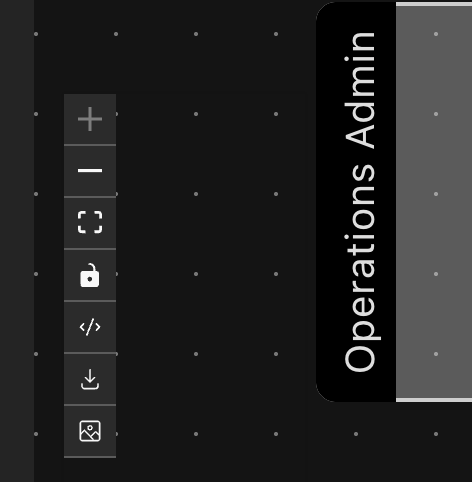
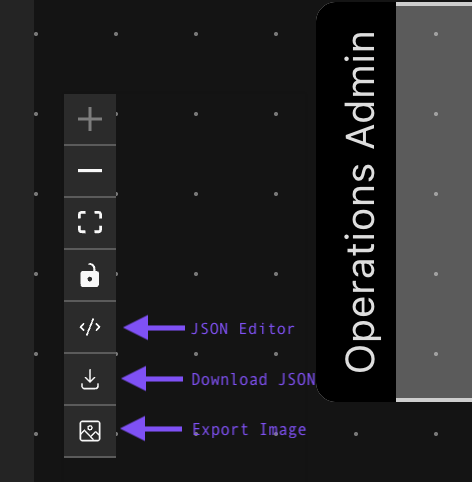
Updated images, fonts and readme

diff --git a/frontend/src/SwimLanesViewer.tsx b/frontend/src/SwimLanesViewer.tsx
@@ -65,9 +65,9 @@ const getLayoutedElements = (nodes: any[] = [], edges: any[] = [], direction = '
   const swimLanesWidthHeight: any = {
     width: 0
   };
-  const swimLanesById:any = {};
+  const swimLanesById: any = {};
   nodes.forEach((node: any) => {
-    if(node.type === 'swimLaneNode') {
+    if (node.type === 'swimLaneNode') {
       if (!swimLanesById[node.id]) {
         swimLanesById[node.id] = node;
       }
@@ -152,11 +152,13 @@ const SwimLanesViewer: React.FC<{ initialNodes: any[], initialEdges: any[], isMo
     endNode: EndNode
   }
   const [data, setData] = useState<{ initialNodes: any[], initialEdges: any[] }>({ initialNodes, initialEdges });
+  const [nodes, setNodes, onNodesChange] = useNodesState(data.initialNodes);
+  const [edges, setEdges, onEdgesChange] = useEdgesState(data.initialNodes);
   const [toggleEditor, setToggleEditor] = useState<boolean>(false);
   const [instance, setInstance] = useState<ReactFlowInstance<Node, any> | null>(null);
   const resizeHandler = debounce(() => {
-      instance?.fitView();
-    }, 100);
+    instance?.fitView();
+  }, 100);
 
   useEffect(() => {
     window.addEventListener('resize', resizeHandler);
@@ -172,7 +174,7 @@ const SwimLanesViewer: React.FC<{ initialNodes: any[], initialEdges: any[], isMo
     );
     setNodes(calculatedNodes.nodes);
     setEdges(calculatedNodes.edges);
-    setTimeout(() => instance?.fitView(),100)
+    setTimeout(() => instance?.fitView(), 100)
   }, [data.initialEdges, data.initialNodes]);
 
   useEffect(() => {
@@ -181,15 +183,6 @@ const SwimLanesViewer: React.FC<{ initialNodes: any[], initialEdges: any[], isMo
     })
   }, [initialEdges, initialNodes]);
 
-  const [nodes, setNodes, onNodesChange] = useNodesState(data.initialNodes);
-  const [edges, setEdges, onEdgesChange] = useEdgesState(data.initialNodes);
-  const onConnect = useCallback(
-    (params: any) =>
-      setEdges((eds) =>
-        addEdge({ ...params, type: ConnectionLineType.SmoothStep, animated: true }, eds),
-      ),
-    [],
-  );
 
   return (
     <div className='flex-col content-center h-dvh flex-1 lg:flex-3/4'>
@@ -199,7 +192,7 @@ const SwimLanesViewer: React.FC<{ initialNodes: any[], initialEdges: any[], isMo
       })}>
         <ReactFlow
           nodes={nodes as Node[]}
-          onConnect={onConnect}
+          // onConnect={onConnect}
           edges={edges}
           onNodesChange={onNodesChange}
           onEdgesChange={onEdgesChange}

diff --git a/frontend/src/pages/ProcessExtractor.tsx b/frontend/src/pages/ProcessExtractor.tsx
@@ -100,7 +100,7 @@ const ProcessExtractor: React.FC<ProcessExtractionPageProps> = ({
       });
       setTimeout(() => {
         setExtractionState({
-        status: 'complete',
+        status: 'idle',
         loading: false,
         error: null,
         action: 'Conencted & Waiting',
@@ -125,8 +125,8 @@ const ProcessExtractor: React.FC<ProcessExtractionPageProps> = ({
       <Alert className='items-center content-center mb-5'>
         {extractionState.Icon && <extractionState.Icon />}{`${extractionState.action}`}
       </Alert>
-      <Textarea name='featureDescription' className='mb-4' placeholder={palceHolder} value={featureDescription} onChange={(e) => setFeatureDescription(e.target.value)}></Textarea>
-      <Button disabled={extractionState.status === 'connecting'} variant={'outline'} onClick={startExtraction} className='cursor-pointer'> <MagicWandIcon /> Generate</Button>
+      <Textarea disabled={extractionState.status !== 'idle'} name='featureDescription' className='mb-4' placeholder={palceHolder} value={featureDescription} onChange={(e) => setFeatureDescription(e.target.value)}></Textarea>
+      <Button disabled={extractionState.status !== 'idle'} variant={'outline'} onClick={startExtraction} className='cursor-pointer'> <MagicWandIcon /> Generate</Button>
     </div>
   </>);
 }

diff --git a/frontend/src/styles/styles.global.css b/frontend/src/styles/styles.global.css
@@ -116,6 +116,7 @@
 @layer base {
   * {
     @apply border-border outline-ring/50;
+    @apply font-mono;
   }
   body {
     @apply bg-background text-foreground;

diff --git a/README.md b/README.md
@@ -2,7 +2,11 @@
 
 An intelligent system that converts natural language feature descriptions into interactive BPMN (Business Process Model and Notation) swimlane diagrams using AI-powered process extraction.
 
+## 💻 Rendered Output
+
 ![Process Extraction Demo](./public/3.png)
+## 💥 Bonus Features
+![Process Extraction Demo](./public/5.png)
 
 ## 🚀 Features
 
@@ -171,10 +175,8 @@ The system uses Zod schemas for validation:
 ```typescript
 // Process diagram structure
 interface ProcessDiagramData {
-actors: string[];
 nodes: ReactFlowNode[];
 edges: ReactFlowEdge[];
-swimlanes: Swimlane[];
 metadata: {
 processName: string;
 totalSteps: number;
@@ -184,43 +186,10 @@ createdAt: string;
 }
 ```
 
-## 🧪 Development
-
-### Project Structure
-
-```
-src/
-├── agents/
-│ ├── BaseAgent.ts # Abstract agent foundation
-│ └── ProcessExtractionAgent.ts # BPMN extraction specialist
-├── providers/
-│ ├── LLMProvider.interface.ts # Provider interface
-│ ├── OpenAI.provider.ts # OpenAI integration
-│ ├── AzureOpenAI.provider.ts # Azure OpenAI integration
-│ └── Anthropic.provider.ts # Anthropic integration
-├── routes/ # Express routes
-├── middlewares/ # Express middlewares
-└── config/ # Configuration files
-```
-
-
-### Building
-
-```bash
-# Build for production
-npm run build
-
-# Start production server
-npm start
-```
 
 ## Libraries Used
 
 - [LlamaIndex](https://github.com/run-llama/LlamaIndex) for AI integration framework
 - [React-Flow](https://reactflow.dev/) for diagram rendering
-- [bpmn.io](https://bpmn.io/) for BPMN inspiration
+- [bpmn.io](https://bpmn.io/) BPMN for inspiration
 - [Socket.io](https://socket.io/) for real-time communication
-
------
-
-**Developed for Interview Assessment - BPMN Process Visualization System**
